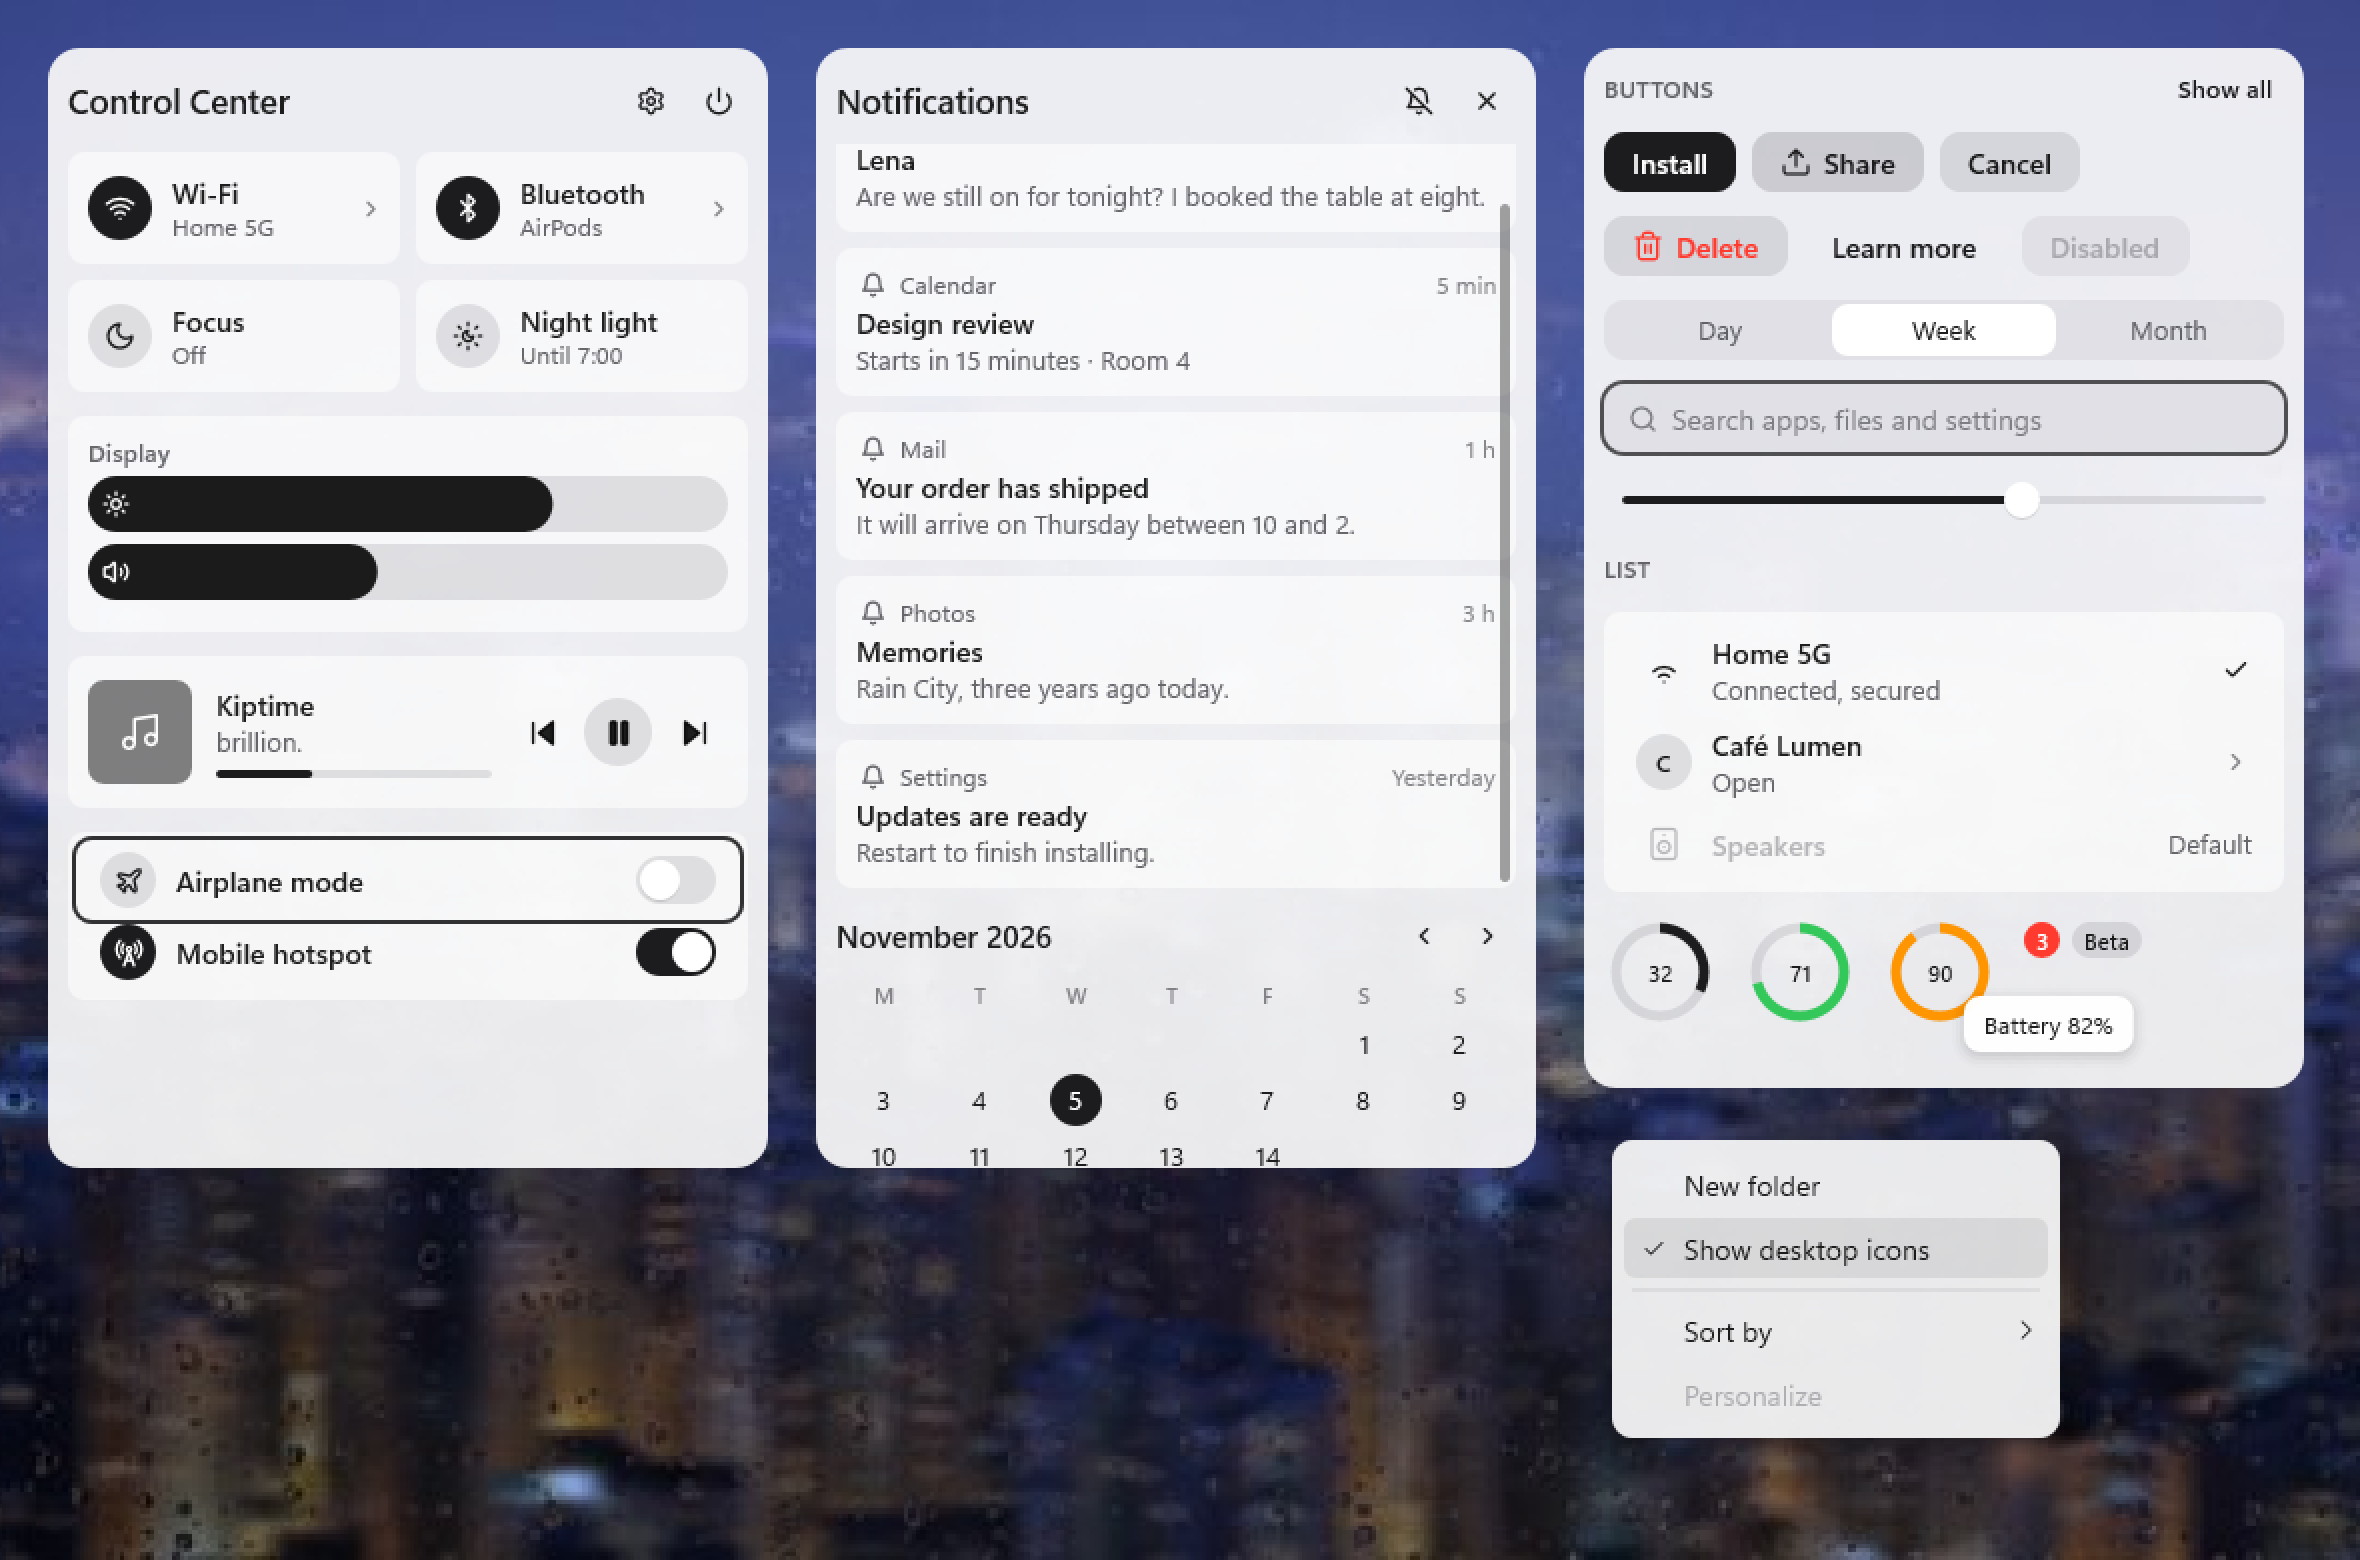
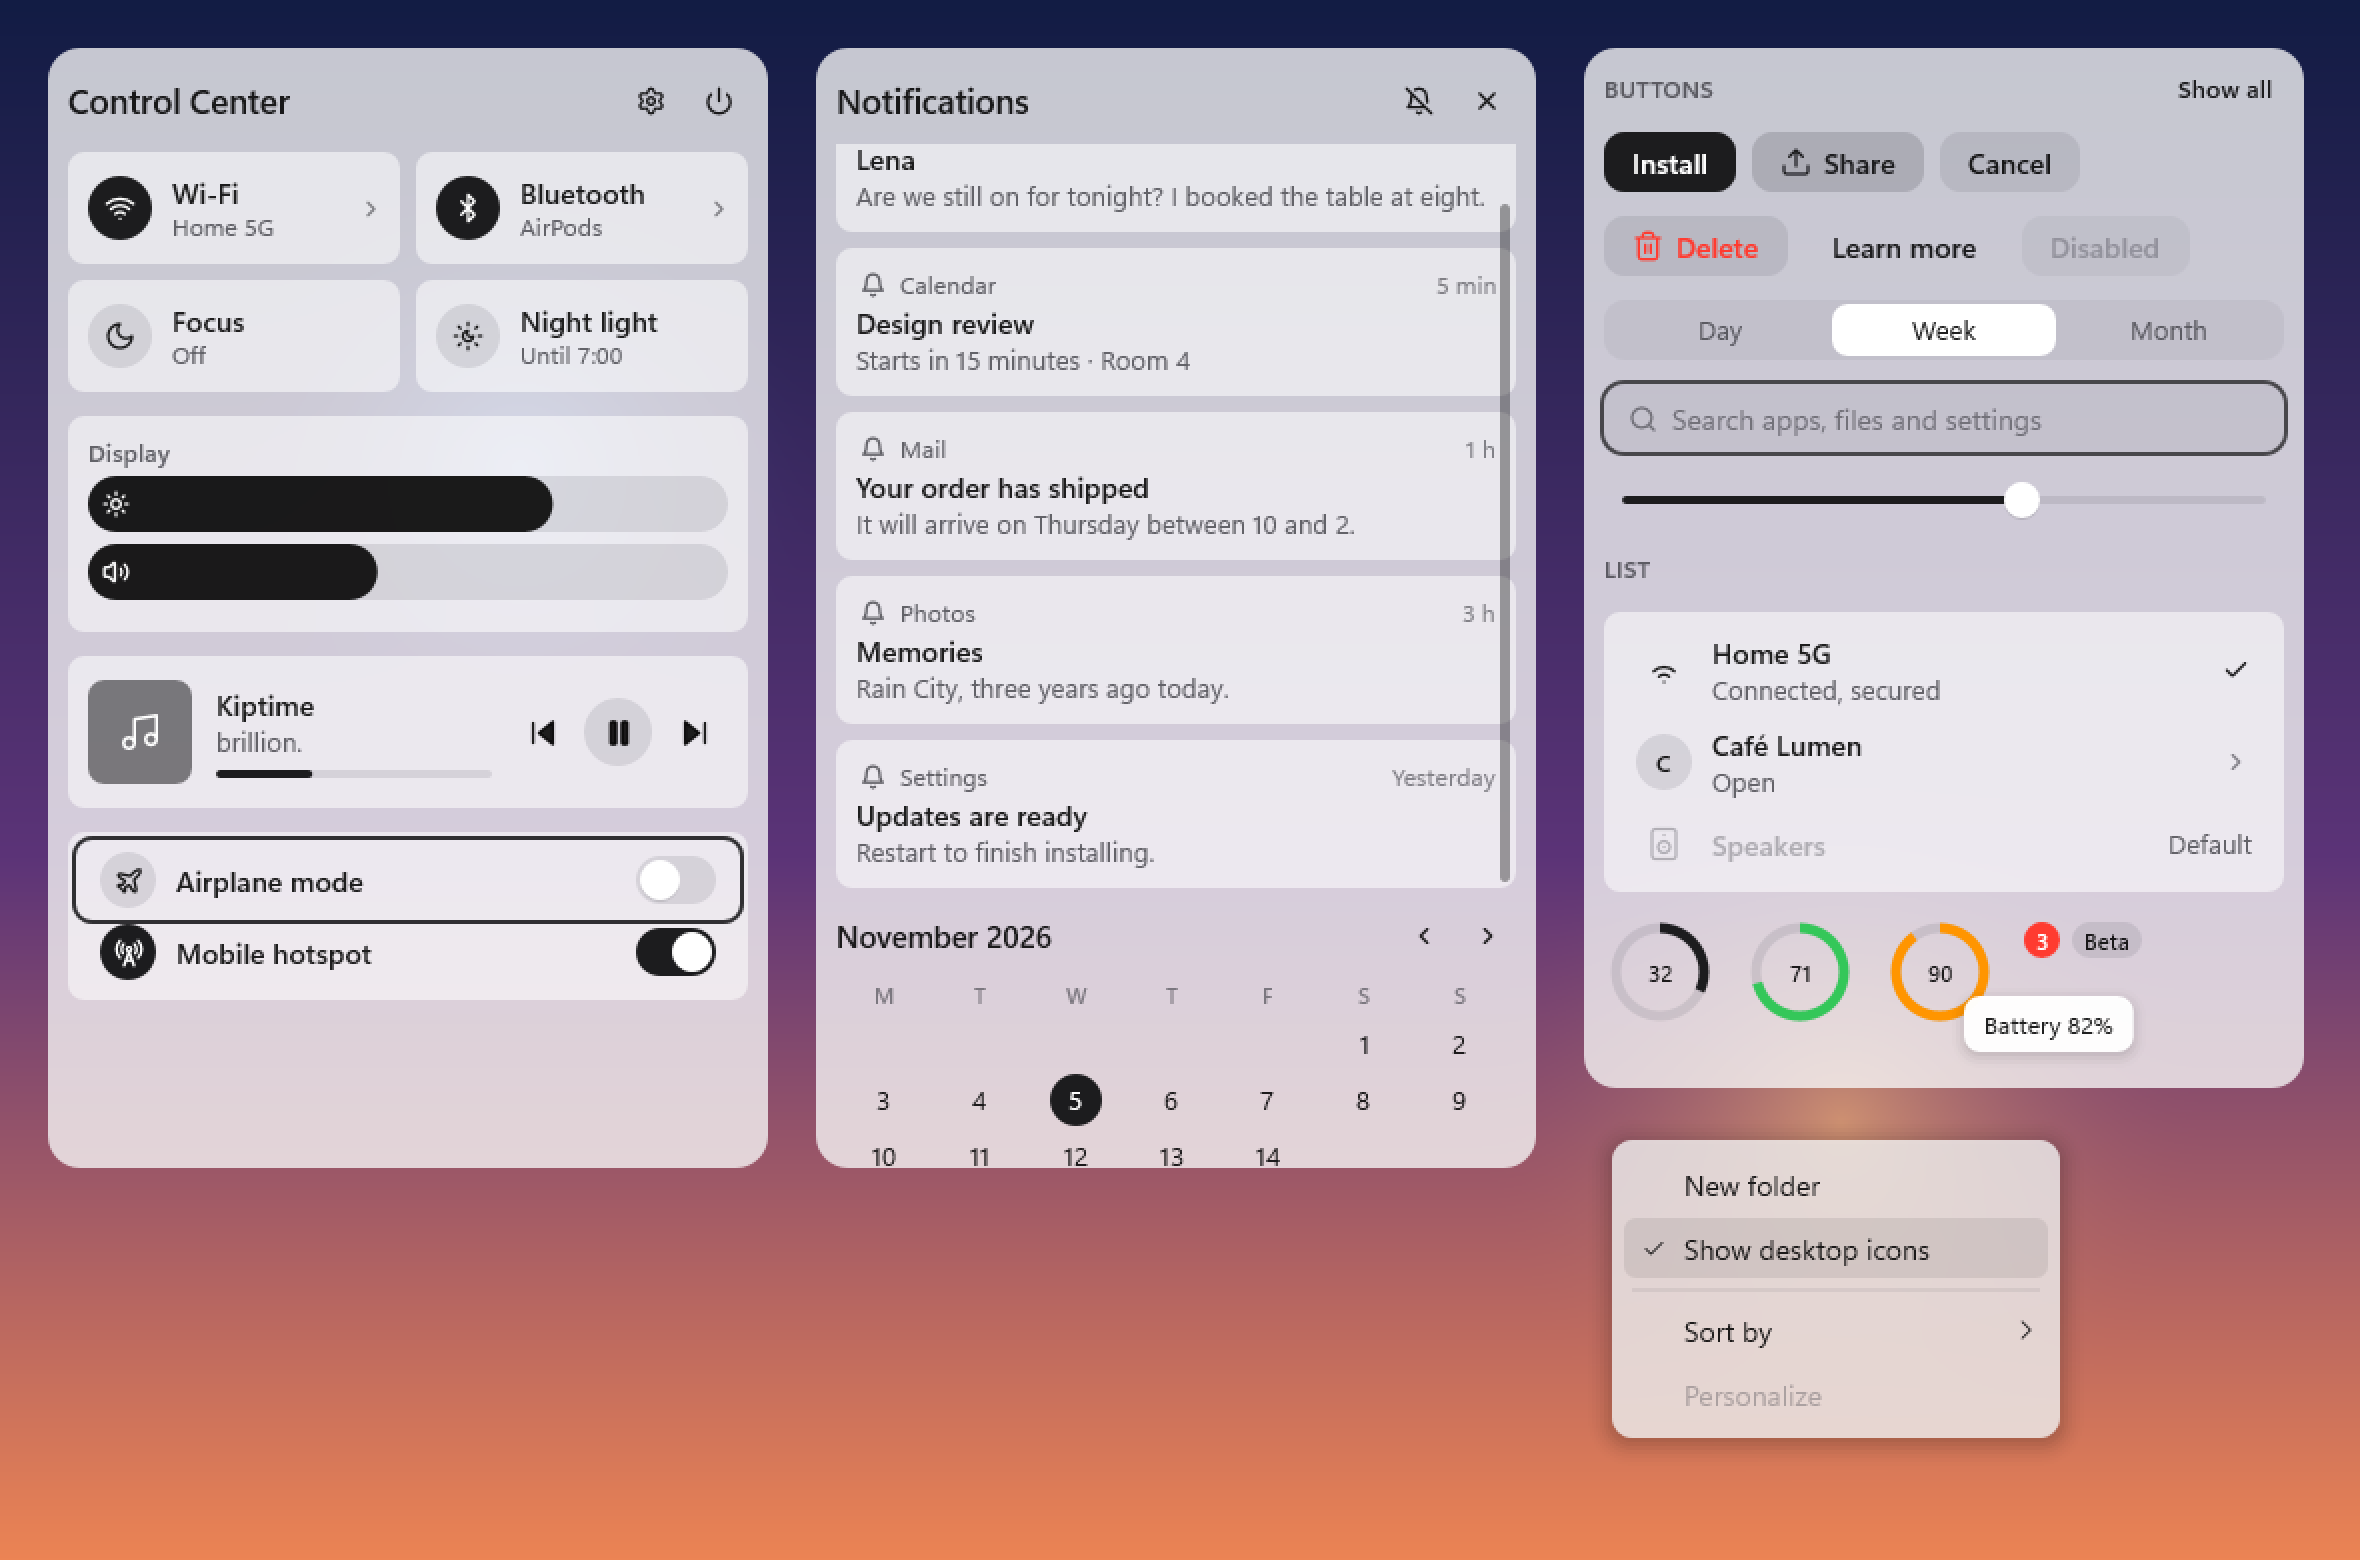
fix(gallery): draw a generated dusk instead of mypaper's non-commercial rain-city preview

diff --git a/crates/stillkit/examples/gallery.rs b/crates/stillkit/examples/gallery.rs
@@ -1,7 +1,9 @@
 //! The kit's gallery: every component in all five styles and both schemes, over a wallpaper,
 //! written as PNGs so they can be judged side by side (docs/ui.md, "The kit").
 //!
-//!   cargo run -p stillkit --example gallery [-- <out dir>]   (default docs/media/native)
+//!   cargo run -p stillkit --example gallery [-- <out dir> [<wallpaper image>]]
+//!
+//! The out dir defaults to docs/media/native; without a wallpaper a generated dusk is used.
 //!
 //! Writes `kit-<style>-<scheme>.png`, `kit-text.png` (the text lab) and `kit-icons.png` (vector
 //! icons against the icon font). Glass is a stand-in for the engine's: the wallpaper blurred,
@@ -29,19 +31,11 @@ fn main() -> anyhow::Result<()> {
         .map_or_else(|| PathBuf::from("docs/media/native"), PathBuf::from);
     std::fs::create_dir_all(&out)?;
     let mut ui = Ui::new()?;
-    let backdrop = match std::fs::read("themes/rain-city/preview.jpg") {
-        Ok(wallpaper) => cover(&ui.decode_image(&wallpaper, (W * 2, H * 2))?, W, H),
-        #[cfg(target_os = "linux")]
-        Err(_) => {
-            // The extracted library does not include mypaper's rain-city theme.
-            let pixels=(0..H).flat_map(|y|(0..W).flat_map(move |x| {
-                let t=(x+y) as f32/(W+H) as f32;
-                [(75.+65.*t) as u8,(48.+50.*t) as u8,(30.+35.*t) as u8,255]
-            })).collect();
-            Image { width:W,height:H,pixels }
-        }
-        #[cfg(not(target_os = "linux"))]
-        Err(error) => return Err(error.into()),
+    // A wallpaper to put the glass over: the second argument's image, or a generated dusk, so
+    // every platform renders the same scene without shipping a photo.
+    let backdrop = match std::env::args().nth(2) {
+        Some(path) => cover(&ui.decode_image(&std::fs::read(&path)?, (W * 2, H * 2))?, W, H),
+        None => dusk(W, H),
     };
     let blurred = blur(&backdrop, 18);
     for style in Style::ALL {
@@ -578,6 +572,33 @@ fn cover(image: &Image, w: u32, h: u32) -> Image {
             let s = ((sy * image.width + sx) * 4) as usize;
             let d = ((y * w + x) * 4) as usize;
             pixels[d..d + 4].copy_from_slice(&image.pixels[s..s + 4]);
+        }
+    }
+    Image { width: w, height: h, pixels }
+}
+
+/// A dusk sky: deep blue above, violet, a warm horizon, and two soft lights, so glass over it
+/// shows both light and dark backdrops.
+fn dusk(w: u32, h: u32) -> Image {
+    let stops = [(0.0, [18.0, 28.0, 68.0]), (0.55, [92.0, 52.0, 120.0]), (1.0, [236.0, 132.0, 84.0])];
+    let lights = [(0.22, 0.30, 0.20, [120.0, 170.0, 255.0]), (0.78, 0.72, 0.24, [255.0, 196.0, 120.0])];
+    let mut pixels = Vec::with_capacity((w * h * 4) as usize);
+    for y in 0..h {
+        let t = y as f32 / (h - 1) as f32;
+        let i = if t < stops[1].0 { 0 } else { 1 };
+        let k = (t - stops[i].0) / (stops[i + 1].0 - stops[i].0);
+        let sky: [f32; 3] = std::array::from_fn(|c| stops[i].1[c] + (stops[i + 1].1[c] - stops[i].1[c]) * k);
+        for x in 0..w {
+            let (u, v) = (x as f32 / w as f32, t);
+            let mut rgb = sky;
+            for (lx, ly, r, color) in lights {
+                let d = ((u - lx).powi(2) * 2.4 + (v - ly).powi(2)).sqrt() / r;
+                let glow = (1.0 - d).max(0.0).powi(2) * 0.55;
+                for c in 0..3 {
+                    rgb[c] += (color[c] - rgb[c]) * glow;
+                }
+            }
+            pixels.extend_from_slice(&[rgb[2] as u8, rgb[1] as u8, rgb[0] as u8, 255]);
         }
     }
     Image { width: w, height: h, pixels }
